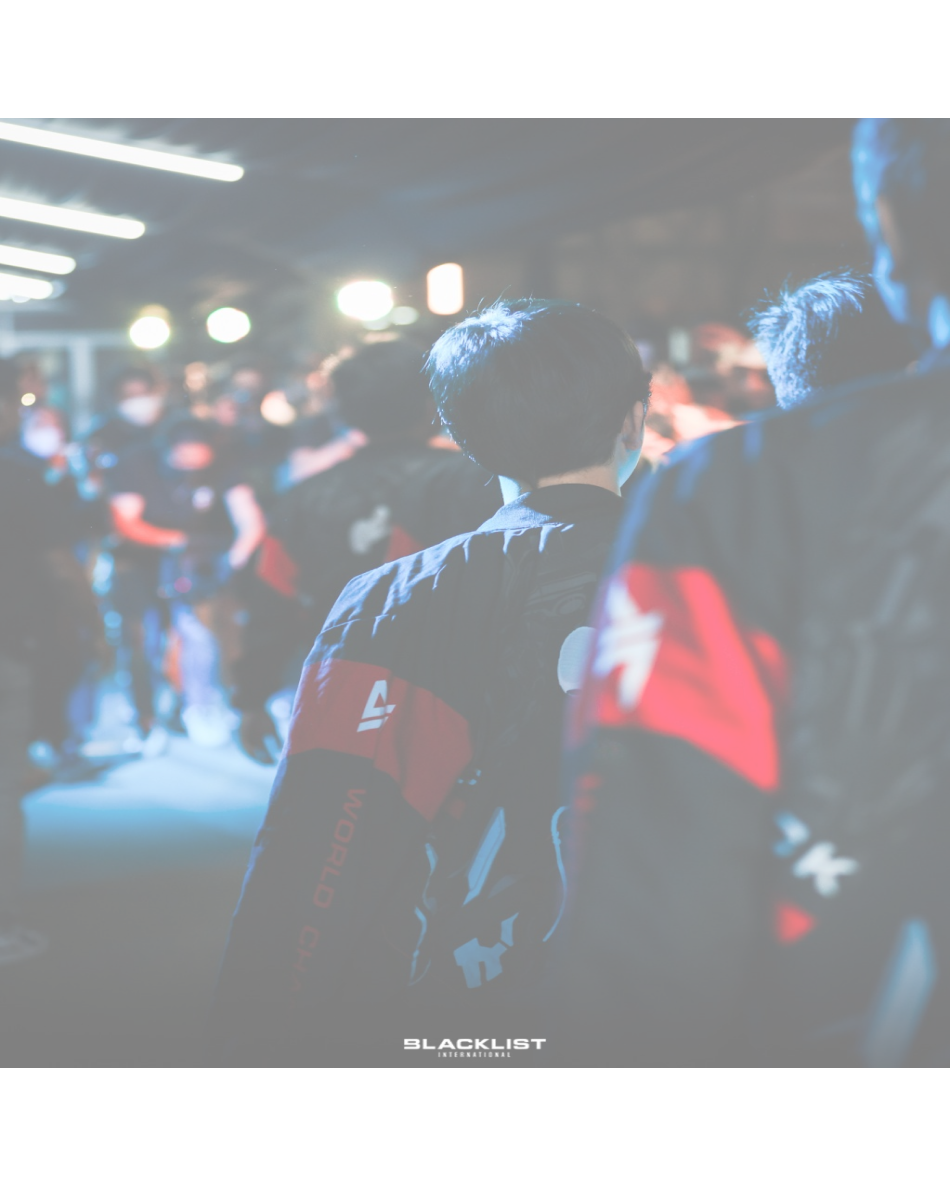
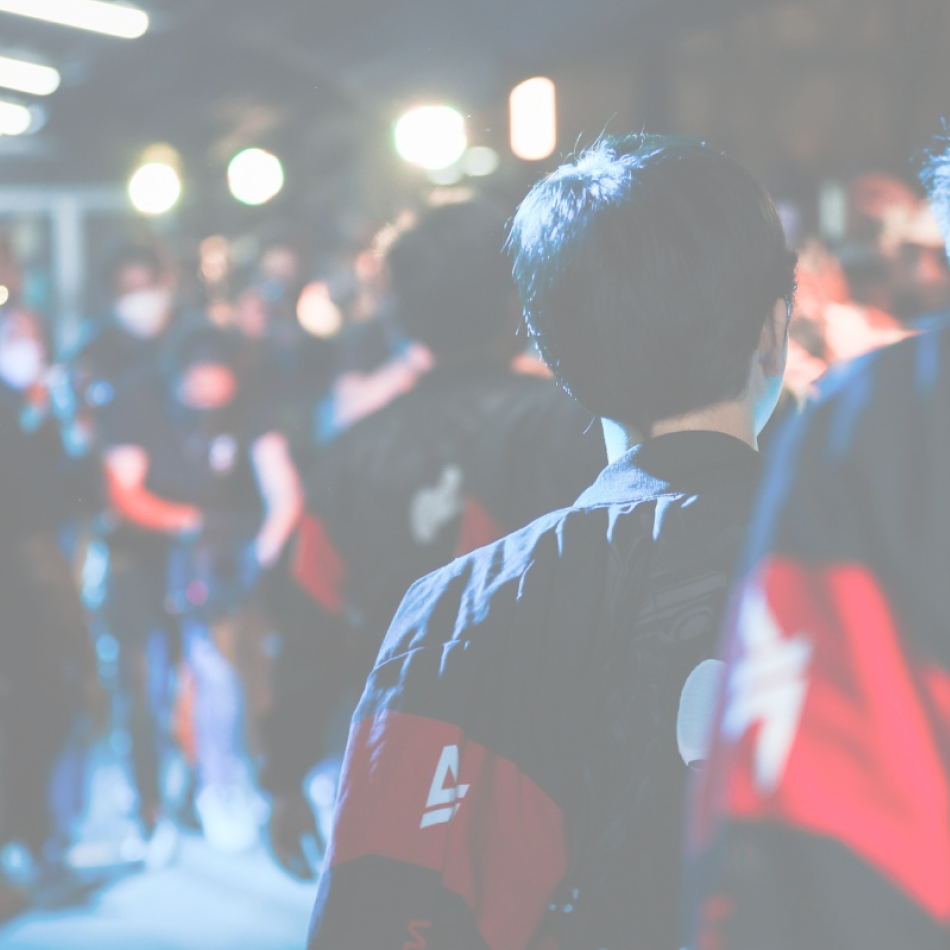
add image meta template

diff --git a/download (1)/index.html b/download (1)/index.html
@@ -9,68 +9,71 @@
             <title>Document</title>
         </head>
         <body>
-            <div class="bg-[#0a0908] w-[1080px] h-[1080px] relative p-[65px]">
+            <div class="bg-[#0a0908] w-[1200px] h-[630px] relative overflow-hidden">
   <div
-    class="border-[5px] w-[950px] h-[950px] absolute left-[65px] top-[65px] overflow-hidden"
+    class="border-[5px] w-[1150px] h-[600px] absolute left-[25px] top-[15px] overflow-hidden"
     style="border: solid #ffffff"
   >
-    <img class="w-[950px] h-[950px] absolute left-0 top-0" src="image-1.png" />
+    <img
+      class="w-[1216px] h-[1521px] absolute left-[-66px] top-[-226px]"
+      src="image-1.png"
+    />
 
-    <div class="w-[205px] h-[17px] absolute left-[723px] top-[914px]">
+    <div class="w-[205px] h-[17px] absolute left-[913px] top-[553px]">
       <div
         class="text-left absolute left-0 top-0"
         style="font: 400 14px 'Inter', sans-serif"
       >
         <span
-          ><span class="text-[#ffffff] created-with----by--spanduck2-span">Created with</span
+          ><span class="created-with----by--spanduck2-span">Created with</span
           ><span class="created-with----by--spanduck2-span2"> ❤ </span
-          ><span class="text-[#ffffff] created-with----by--spanduck2-span3"
+          ><span class="created-with----by--spanduck2-span3"
             >by @spanduck</span
           ></span
         >
       </div>
     </div>
     <svg
-      class="absolute left-[100px] top-[688px] overflow-visible"
+      class="absolute left-[93px] top-[420px] overflow-visible"
       style="transform: translate(0px, 0px)"
-      width="750"
-      height="1"
-      viewBox="0 0 750 1"
+      width="964"
+      height="3"
+      viewBox="0 0 964 3"
       fill="none"
       xmlns="http://www.w3.org/2000/svg"
     >
       <path
         fill-rule="evenodd"
         clip-rule="evenodd"
-        d="M750 1L0 1L0 0L750 0V1Z"
+        d="M964 3L0 3L0 0L964 0V3Z"
         fill="white"
       />
     </svg>
 
-    <div class="w-[644px] h-[126px] static">
+    <div class="w-[547px] h-[100px] static">
       <div
-        class="text-[#ffffff] text-left absolute left-[267px] top-[749px]"
-        style="font: 400 36px 'Inter', sans-serif"
+        class="text-[#ffffff] text-left absolute left-48 top-[464px]"
+        style="font: 400 32px 'Inter', sans-serif"
       >
         BLACKLIST INTERNATIONAL
       </div>
 
       <div
-        class="text-[#ffffff] text-left absolute left-[267px] top-[804px]"
+        class="text-[#ffffff] text-left absolute left-48 top-[512px]"
         style="font: 400 24px 'Inter', sans-serif"
       >
         @BLACKLISTINTL
       </div>
 
       <img
-        class="rounded-[50%] w-[127px] h-[126px] absolute left-28 top-[728px]"
+        class="rounded-[50%] w-[100px] h-[100px] absolute left-20 top-[453px]"
         src="ellipse-1.png"
       />
     </div>
 
     <div
-      class="text-[#ffffff] text-left absolute left-[93px] top-[137px] w-[693px] h-[521px]"
-      style="font: 700 64px 'Inter', sans-serif"
+      class="text-[#ffffff] text-left absolute left-48 top-[129px] w-[695px] h-[207px]"
+      style="font: 700 48px 'Inter', sans-serif"
     >
       <span
         ><span

diff --git a/meta_1/index.html b/meta_1/index.html
@@ -9,14 +9,17 @@
             <title>Document</title>
         </head>
         <body>
-            <div class="bg-[#0a0908] w-[1080px] h-[1080px] relative p-[65px]">
+            <div class="bg-[#0a0908] w-[1200px] h-[630px] relative overflow-hidden">
   <div
-    class="border-[5px] w-[950px] h-[950px] absolute left-[65px] top-[65px] overflow-hidden"
+    class="border-[5px] w-[1150px] h-[600px] absolute left-[25px] top-[15px] overflow-hidden"
     style="border: solid #ffffff"
   >
-    <img class="w-[950px] h-[950px] absolute left-0 top-0" src="image-1.png" />
+    <img
+      class="w-[1216px] h-[1521px] absolute left-[-66px] top-[-226px]"
+      src="image-1.png"
+    />
 
-    <div class="w-[205px] h-[17px] absolute left-[723px] top-[914px]">
+    <div class="w-[205px] h-[17px] absolute left-[913px] top-[553px]">
       <div
         class="text-left absolute left-0 top-0"
         style="font: 400 14px 'Inter', sans-serif"
@@ -31,46 +34,46 @@
       </div>
     </div>
     <svg
-      class="absolute left-[100px] top-[688px] overflow-visible"
+      class="absolute left-[93px] top-[420px] overflow-visible"
       style="transform: translate(0px, 0px)"
-      width="750"
-      height="1"
-      viewBox="0 0 750 1"
+      width="964"
+      height="3"
+      viewBox="0 0 964 3"
       fill="none"
       xmlns="http://www.w3.org/2000/svg"
     >
       <path
         fill-rule="evenodd"
         clip-rule="evenodd"
-        d="M750 1L0 1L0 0L750 0V1Z"
+        d="M964 3L0 3L0 0L964 0V3Z"
         fill="white"
       />
     </svg>
 
-    <div class="w-[644px] h-[126px] static">
+    <div class="w-[547px] h-[100px] static">
       <div
-        class="text-[#ffffff] text-left absolute left-[267px] top-[749px]"
-        style="font: 400 36px 'Inter', sans-serif"
+        class="text-[#ffffff] text-left absolute left-48 top-[464px]"
+        style="font: 400 32px 'Inter', sans-serif"
       >
         BLACKLIST INTERNATIONAL
       </div>
 
       <div
-        class="text-[#ffffff] text-left absolute left-[267px] top-[804px]"
+        class="text-[#ffffff] text-left absolute left-48 top-[512px]"
         style="font: 400 24px 'Inter', sans-serif"
       >
         @BLACKLISTINTL
       </div>
 
       <img
-        class="rounded-[50%] w-[127px] h-[126px] absolute left-28 top-[728px]"
+        class="rounded-[50%] w-[100px] h-[100px] absolute left-20 top-[453px]"
         src="ellipse-1.png"
       />
     </div>
 
     <div
-      class="text-[#ffffff] text-left absolute left-[93px] top-[137px] w-[693px] h-[521px]"
-      style="font: 700 64px 'Inter', sans-serif"
+      class="text-[#ffffff] text-left absolute left-48 top-[129px] w-[695px] h-[207px]"
+      style="font: 700 48px 'Inter', sans-serif"
     >
       <span
         ><span

diff --git a/readme.md b/readme.md
@@ -59,3 +59,14 @@
     </tr>
   </tbody>
 </table>
+
+<table>
+  <tbody>
+    <tr>
+      <td><img src="image/meta_1.png" alt="meta" width="400"/>
+        <br/>meta 1
+      </td>
+    </tr>
+  </tbody>
+</table>
+
